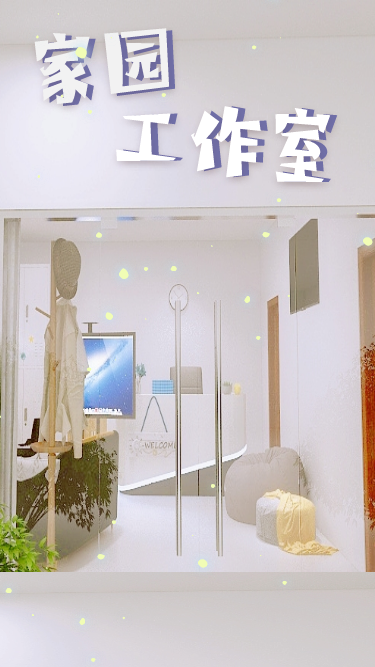
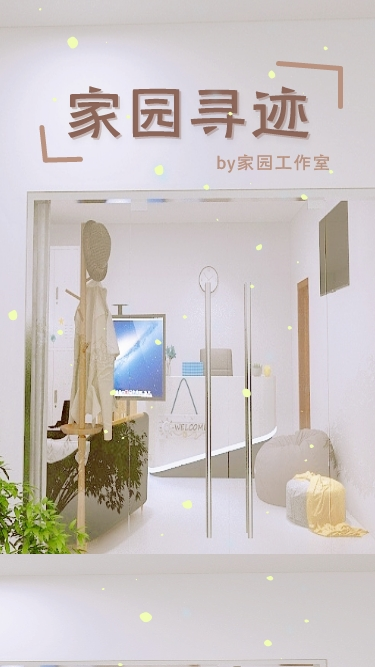
毛玻璃 规则交互 message下方

diff --git a/src/pages/First/firstOne.js b/src/pages/First/firstOne.js
@@ -103,7 +103,7 @@ class FirstOne extends Component {
             height:'100%',
             width:'100%',
             transition: 'all 1s',
-            filter: 'blur(5px)',
+            // filter: 'blur(5px)',
           },
         })
       },800)
@@ -122,11 +122,12 @@ class FirstOne extends Component {
 
   handleEnter() {
     if(!this.state.start) {
+      this.handleChange();
       message.destroy();
       message.warning({
         content:'请先阅读游戏规则哦~',
         duration:1
-      });
+      });     
       return ;
     }
     this.props.history.push('/mapOne');
@@ -196,7 +197,7 @@ class FirstOne extends Component {
           height:'100%',
           width:'100%',
           transition: 'all 1s',
-          filter: 'blur(5px)',
+          // filter: 'blur(5px)',
         },
       })
     },100)
@@ -213,10 +214,10 @@ class FirstOne extends Component {
         </div>
         <div className="imgShow" style={imgShow}>
           <div className="imgOne" style={this.state.oneStyle}>
-            <img src="https://ncu-hometracking.oss-accelerate.aliyuncs.com/one.jpeg" alt=""/>
+            <img src="https://ncu-hometracking.oss-accelerate.aliyuncs.com/one.png" alt=""/>
           </div>
           <div className="imgTwo" style={this.state.twoStyle}>
-            <img src="https://ncu-hometracking.oss-accelerate.aliyuncs.com/two.jpeg" alt=""/>
+            <img src="https://ncu-hometracking.oss-accelerate.aliyuncs.com/two.png" alt=""/>
           </div>
         </div>
         <div className="buttonBox" style={buttonBox}>

diff --git a/src/pages/DetailOne/index.js b/src/pages/DetailOne/index.js
@@ -6,14 +6,16 @@ import {
   textStyle,
 } from './style';
 import axios from 'axios';
-import store from '../../store/index'
+import store from '../../store/index';
+import "animate.css";
 
 class DetailOne extends Component {
   constructor(props) {
     super(props);
     this.state = {
       id:this.props.id,
-      imgText:''
+      imgText:'',
+      fadeIn:"animate__animated animate__fadeInDown"
     }
   }
 
@@ -38,9 +40,9 @@ class DetailOne extends Component {
   
   render() {
     return (
-      <div className="tip" style={tipStyle}>
+      <div className="tip" style={tipStyle} className={this.state.fadeIn}>
         <div className="circle" style={circleStyle}>
-          <img src={require('../Collections/pics/'+this.state.id+'.png')} alt="" style={imgStyle}/>
+          <img src={'https://ncu-hometracking.oss-cn-hangzhou.aliyuncs.com/'+this.state.id+'.png'}  alt="" style={imgStyle}/>
         </div>
         <div className="text" style={textStyle}>
           {this.state.imgText}

diff --git a/src/pages/Collections/index.js b/src/pages/Collections/index.js
@@ -61,7 +61,8 @@ class Collections extends Component {
             borderRadius:'0.11rem',
             fontSize:'0.14rem'
           },
-          icon:<FrownTwoTone spin twoToneColor="#B22222"/>
+          icon:<FrownTwoTone spin twoToneColor="#B22222"/>,
+          top:100
         })
         return ;
       }
@@ -93,7 +94,8 @@ class Collections extends Component {
                   <Row>
                     <Col span={6} style={imgStyle}>
                       <div className="item-img" >
-                        <img src={require('./pics/'+parseInt(item.ObjID)+'.png')} alt="" style={imgInsideStyle}/>
+                      {/* <img src={'https://ncu-hometracking.oss-accelerate.aliyuncs.com/'+this.state.id+'.png'}  alt="" style={imgStyle}/> */}
+                      <img src={'https://ncu-hometracking.oss-accelerate.aliyuncs.com/'+parseInt(item.ObjID)+'.png'} alt="" style={imgInsideStyle}/>
                       </div>
                     </Col>
                     <Col span={18}>

diff --git a/src/pages/maps/mapOne/index.js b/src/pages/maps/mapOne/index.js
@@ -29,7 +29,6 @@ import { SmileTwoTone } from '@ant-design/icons';
 import '../config/style.css';
 import DetailOne from '../../DetailOne/index';
 import store from '../../../store/index';
-
 class mapOne extends Component {
 
   constructor(props) {
@@ -38,7 +37,7 @@ class mapOne extends Component {
       isVisable:false,
       isVisableGet:false,
       number:0,
-      get:false
+      get:false,
     }
     // this.handleGet = this.handleGet.bind(this);
     this.handleLeft = this.handleLeft.bind(this);
@@ -50,7 +49,7 @@ class mapOne extends Component {
   handleShutFull() {
     this.setState({
       isVisableGet:false,
-      get:false
+      get:false,
     })
     this.props.history.push('/all')
   }
@@ -62,7 +61,7 @@ class mapOne extends Component {
     if(store.getState().toJS().mapReducer.number === 8) {
       this.setState({
         get:true,
-        isVisableGet:true
+        isVisableGet:true,
       })
     }
     else {

diff --git a/src/pages/DetailOne/style.js b/src/pages/DetailOne/style.js
@@ -1,12 +1,10 @@
 export const tipStyle = {
   border:'1px solid white',
-  boxShadow: '5px 5px 10px 10px rgba(0, 0, 0, .05)',
+  boxShadow: '5px 5px 10px 10px rgba(255, 255, 255, 0.1)',
   margin:'0 auto',
   marginTop:'100px',
   width:'3.06rem',
-  // height:'2.99rem',
-  // backgroundColor:'yellow',
-  // background: `url(${require("./pics/detail.png")})`,
+  height:'3.5rem',
   backgroundColor:'white',
   backgroundSize:'100% 100%',
   backgroundRepeat: 'no-repeat',
@@ -32,7 +30,7 @@ export const imgStyle = {
 export const textStyle = {
   margin:'0 auto',
   paddingTop:'0.22rem',
-  paddingBottom:'0.22rem',
+  // paddingBottom:'0.22rem',
   // paddingRight:'0.2rem',
   letterSpacing:'0.01rem',
   lineHeight:'0.2rem',

diff --git a/src/pages/maps/mapThree/index.js b/src/pages/maps/mapThree/index.js
@@ -204,7 +204,7 @@ class mapThree extends Component {
           }
         </div>
         {/* <img src="https://s1.ax1x.com/2020/09/15/wsoUqx.png" alt=""/> */}
-        <img src="https://ncu-hometracking.oss-accelerate.aliyuncs.com/roomThree.png" alt=""/>
+        <img src="https://ncu-hometracking.oss-cn-hangzhou.aliyuncs.com/roomThree.png" alt=""/>
         <div className="num2" style={num2Style} onClick={this.handleGet.bind(this,4)}>
           <img src="https://ncu-hometracking.oss-accelerate.aliyuncs.com/0.png" alt="" style={imgStyle}/>
         </div>

diff --git a/src/pages/maps/mapTwo/index.js b/src/pages/maps/mapTwo/index.js
@@ -206,7 +206,7 @@ class mapTwo extends Component {
           }
         </div>
         {/* <img src="https://s1.ax1x.com/2020/09/15/wsotMR.png" alt=""/> */}
-        <img src="https://ncu-hometracking.oss-accelerate.aliyuncs.com/roomTwo.png" alt=""/>
+        <img src="https://ncu-hometracking.oss-cn-hangzhou.aliyuncs.com/roomTwo.png" alt=""/>
         <div className="num2" style={im1style} onClick={this.handleGet.bind(this,5)}>
           <img src="https://ncu-hometracking.oss-accelerate.aliyuncs.com/0.png" alt="" style={imgStyle}/>
         </div>

diff --git a/src/pages/First/style.js b/src/pages/First/style.js
@@ -21,10 +21,10 @@ export const buttonStyle = {
   width:'1.22rem',
   height:'0.52rem',
   textAlign:'center',
-  color:'white',
-  background:'lightgray',
+  color:'#FFFFFF',
+  background:'#B99380',
   borderRadius:'0.1rem',
-  borderColor:'none',
+  borderColor:'#B99380',
   marginTop:'0.1rem',
   boxShadow: '0 15px 30px rgba(0,0,0,0.1)',
   fontSize:'0.15rem'

diff --git a/src/pages/Collections/style.js b/src/pages/Collections/style.js
@@ -62,7 +62,7 @@ export const descStyle = {
   paddingTop:'0.22rem',
   paddingBottom:'0.22rem',
   paddingRight:'0.2rem',
-  fontSize:'0.04rem',
+  fontSize:'0.2rem',
   letterSpacing:'0.01rem',
   lineHeight:'0.15rem',
   color:'gray',

diff --git a/src/utils/events.js b/src/utils/events.js
@@ -1,0 +1,3 @@
+import { EventEmitter } from 'events';
+
+export default new EventEmitter();
